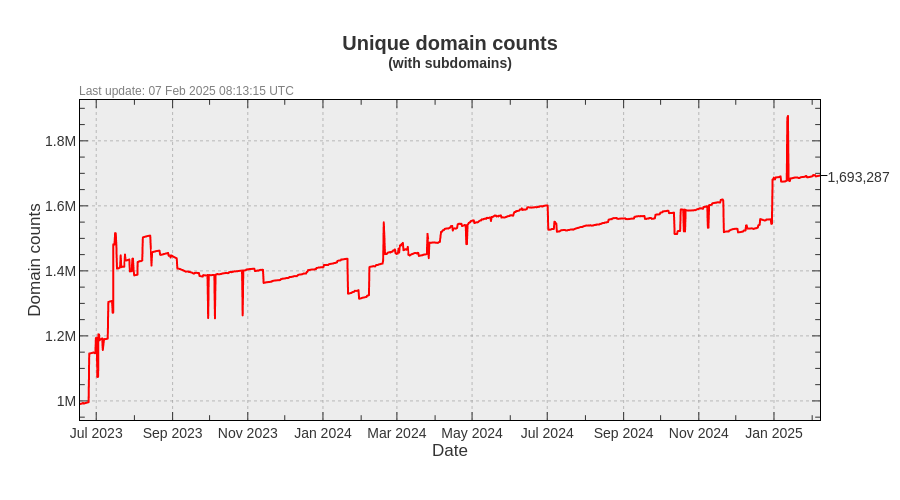
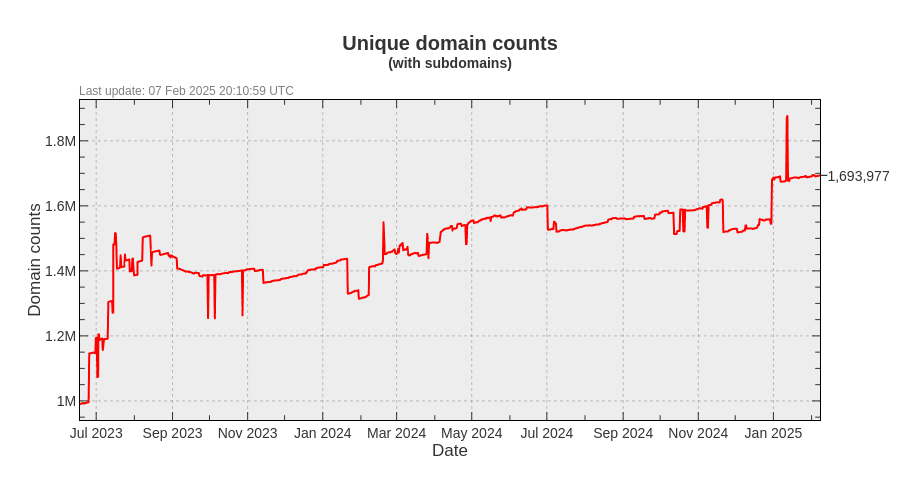
Update pages

diff --git a/README.md b/README.md
@@ -3,22 +3,22 @@ A blacklist file for blocking ads, trackers and malware domains.
 
[1 lines of base64/hex data omitted]
 
-- Unique domains: 1,693,287
-- Without subdomains: 1,040,951
-- Last update: 07 Feb 2025 08:13:15 UTC
-- Version: 2025.02.07.01
+- Unique domains: 1,693,977
+- Without subdomains: 1,041,647
+- Last update: 07 Feb 2025 20:10:59 UTC
+- Version: 2025.02.07.02
 
 
 ### Downloads:
 
 | Format             | Domain count      | Download Link |
 |:------------------ | -----------------:|:-------------:|
-| *Adblock Plus*     | 1,040,951 | [Download](https://dl.cenk.app/bad-hosts/bad-hosts-abp) |
-| *Wildcard domains* | 1,040,951 | [Download](https://dl.cenk.app/bad-hosts/bad-hosts-wildcard) |
-| *dnsmasq*          | 1,040,951 | [Download](https://dl.cenk.app/bad-hosts/bad-hosts-dnsmasq) |
-| *Unbound*          | 1,040,951 | [Download](https://dl.cenk.app/bad-hosts/bad-hosts-unbound) |
-| *hosts*            | 1,693,287 | [Download](https://dl.cenk.app/bad-hosts/hosts) |
-| *hosts (ipv6)*     | 1,693,287 | [Download](https://dl.cenk.app/bad-hosts/hosts-ipv6) |
-| *Plain domains*    | 1,693,287 | [Download](https://dl.cenk.app/bad-hosts/bad-hosts-domains) |
+| *Adblock Plus*     | 1,041,647 | [Download](https://dl.cenk.app/bad-hosts/bad-hosts-abp) |
+| *Wildcard domains* | 1,041,647 | [Download](https://dl.cenk.app/bad-hosts/bad-hosts-wildcard) |
+| *dnsmasq*          | 1,041,647 | [Download](https://dl.cenk.app/bad-hosts/bad-hosts-dnsmasq) |
+| *Unbound*          | 1,041,647 | [Download](https://dl.cenk.app/bad-hosts/bad-hosts-unbound) |
+| *hosts*            | 1,693,977 | [Download](https://dl.cenk.app/bad-hosts/hosts) |
+| *hosts (ipv6)*     | 1,693,977 | [Download](https://dl.cenk.app/bad-hosts/hosts-ipv6) |
+| *Plain domains*    | 1,693,977 | [Download](https://dl.cenk.app/bad-hosts/bad-hosts-domains) |
 
 
